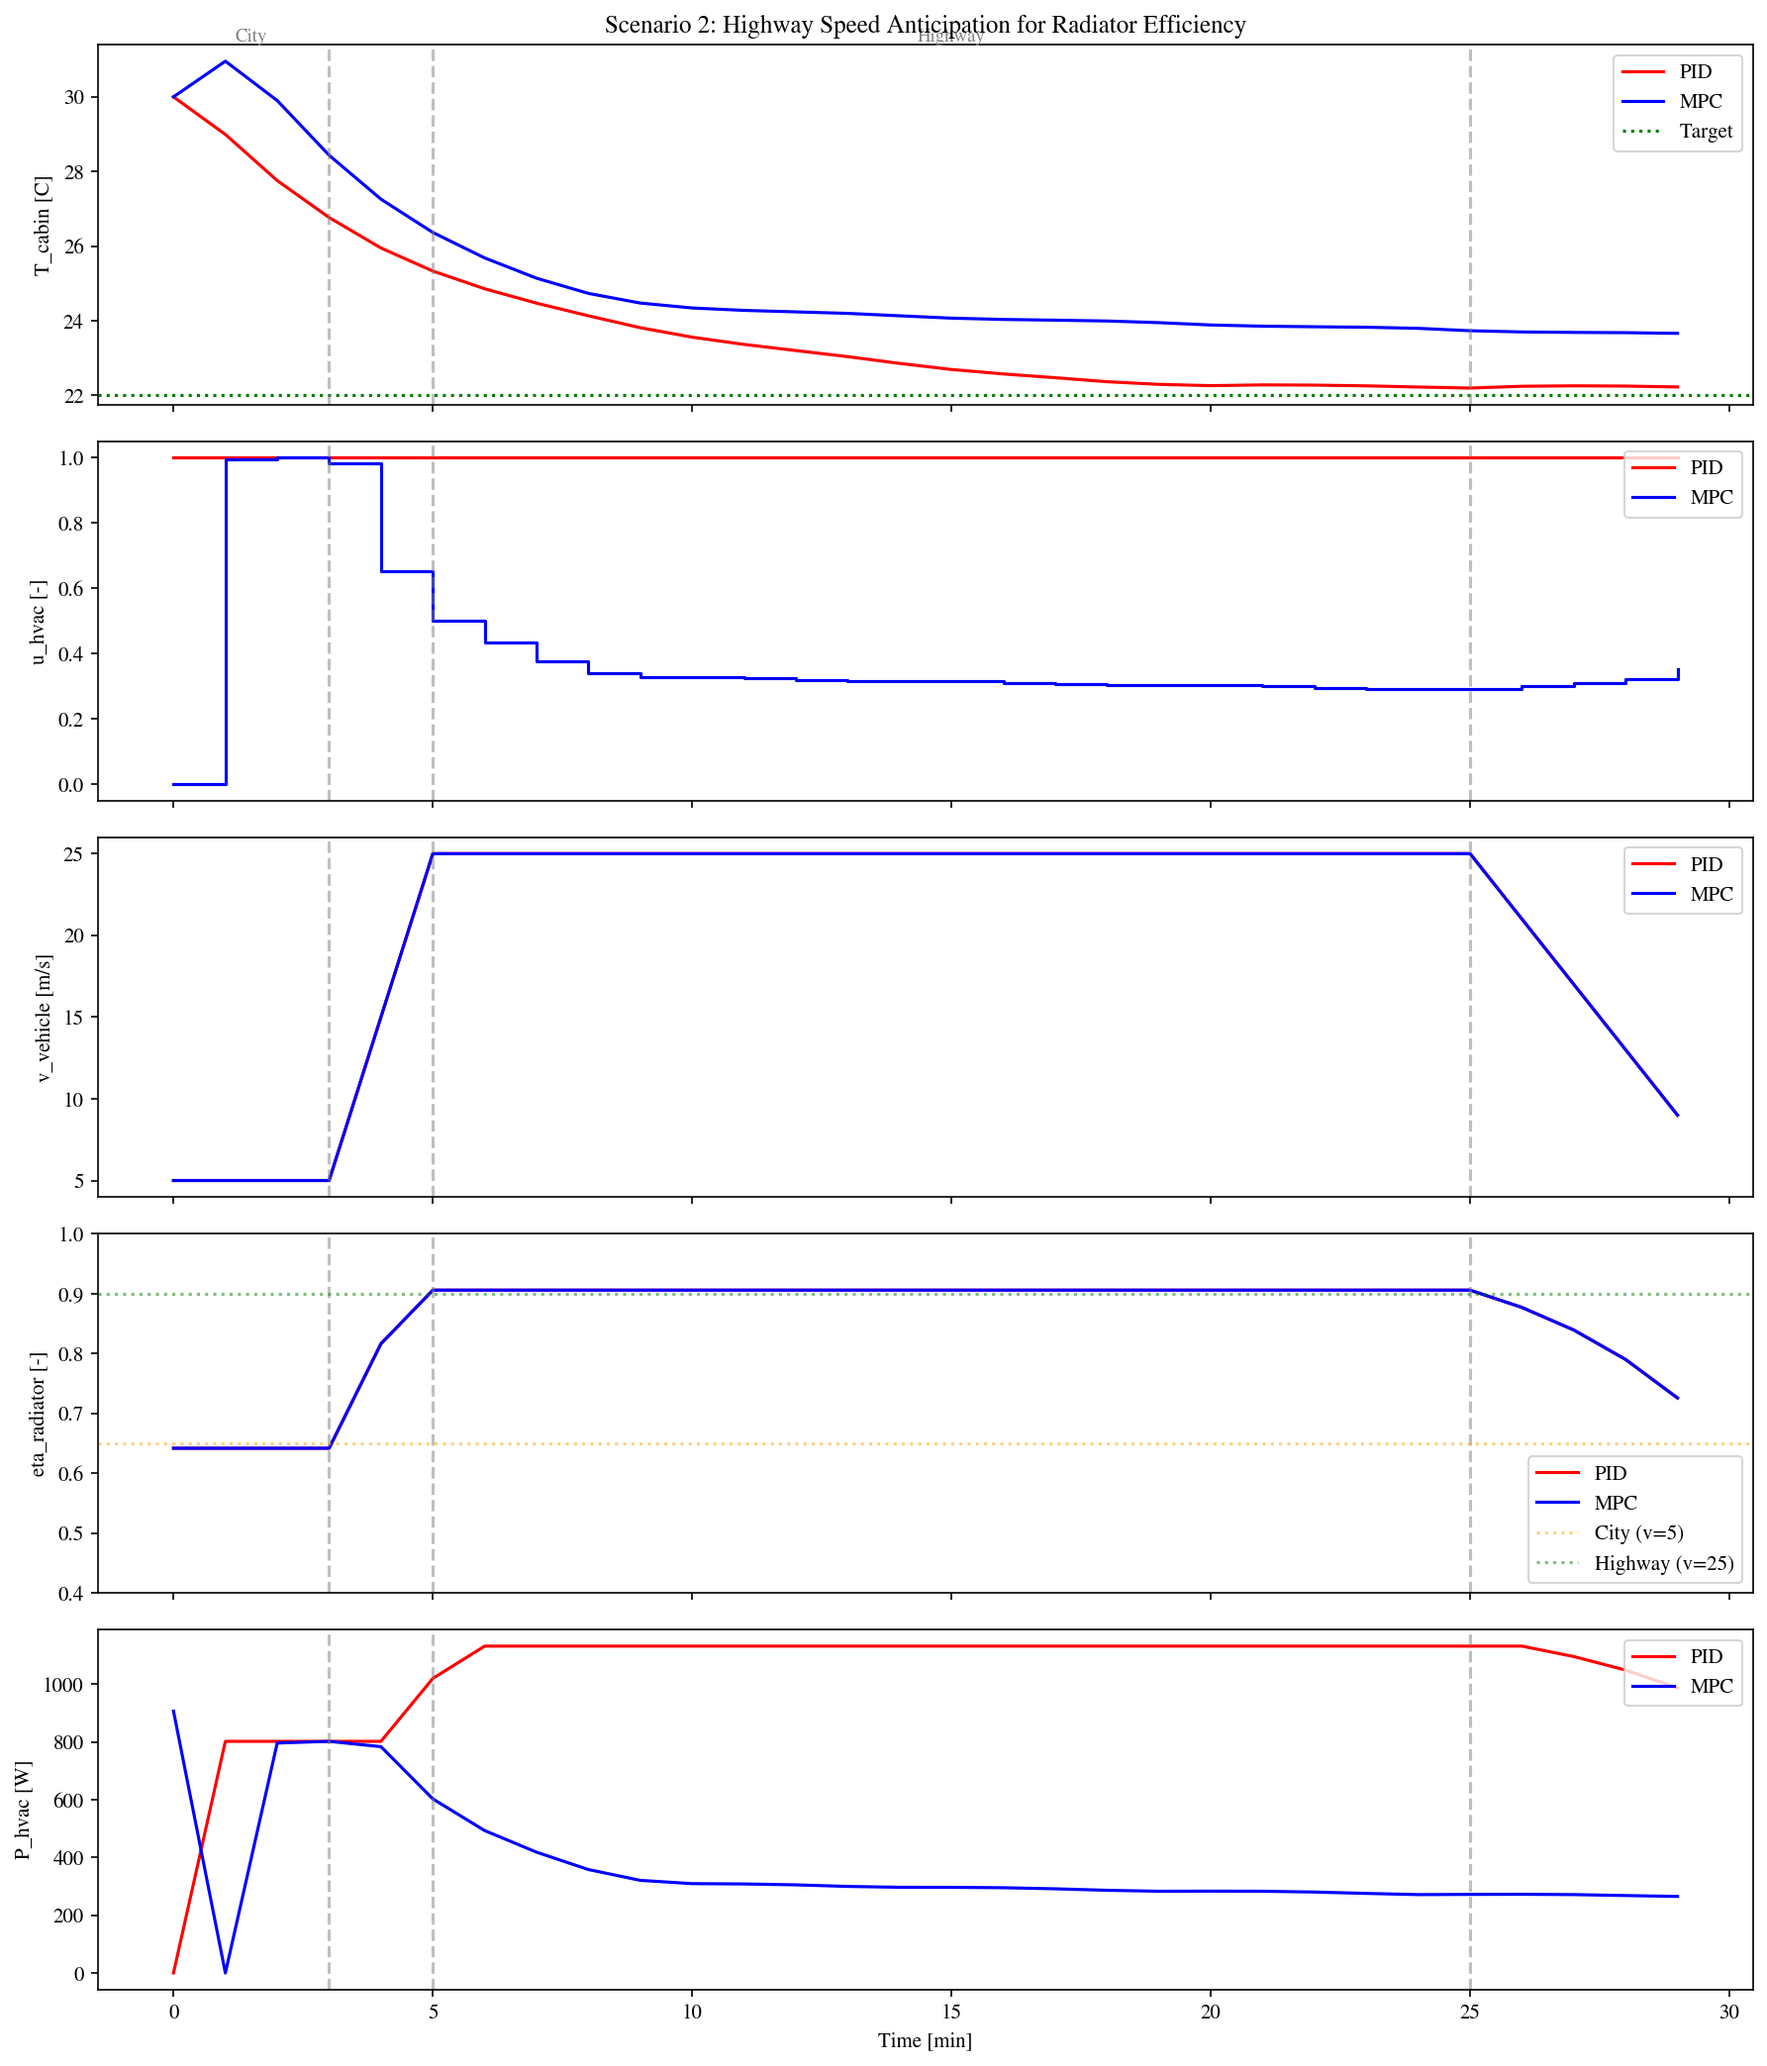
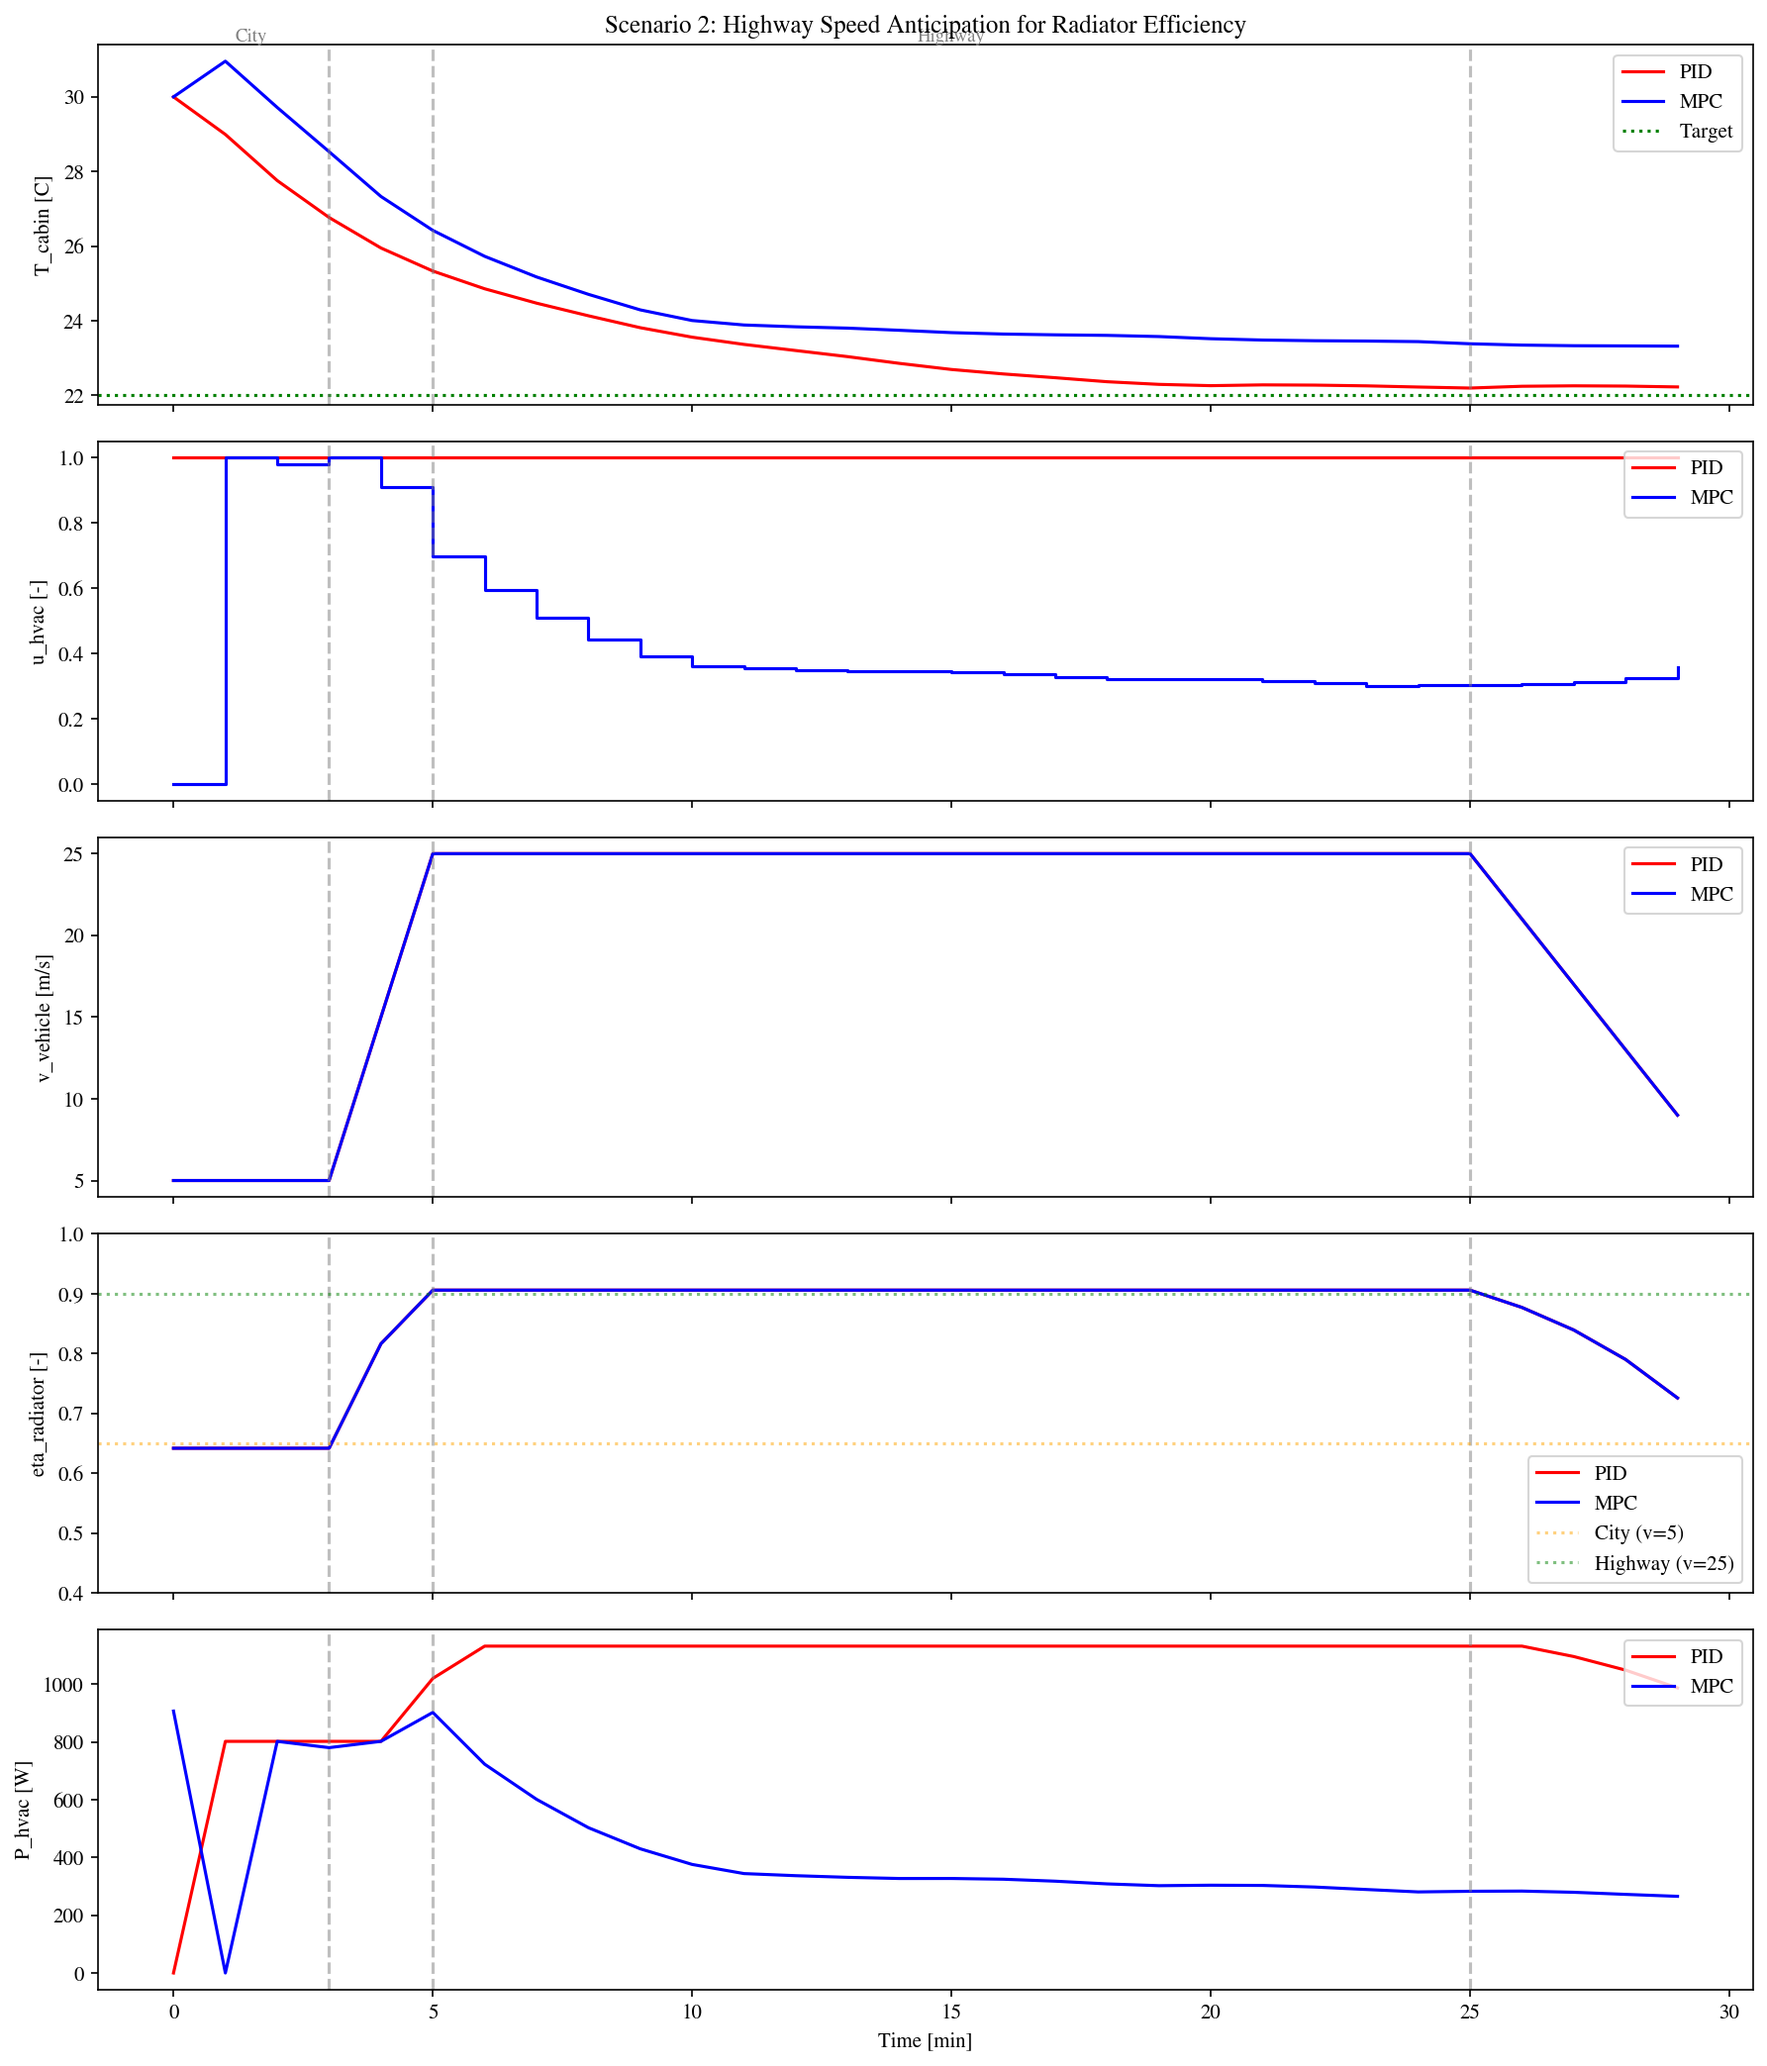
scenario 2 (noch besser)

diff --git a/Examples/Robotaxi/scenario_config.py b/Examples/Robotaxi/scenario_config.py
@@ -400,11 +400,11 @@ def highway_anticipation_scenario() -> ScenarioConfig:
         },
 
         weights={
-            'T_cabin': 100.0,
+            'T_cabin': 1000.0,  # High weight to ensure comfort band [20-24°C] is reached
             'T_vent': 1.0,
             'T_ptc': 0.0,
             'C_CO2': 50.0,
-            'energy': 0.001,  # Higher energy penalty to encourage waiting for better eta
+            'energy': 0.00005,  # Very low energy penalty, MPC still benefits from eta_radiator
         },
 
         profile_T_ambient=ambient_profile,

diff --git a/.claude/claude.md b/.claude/claude.md
@@ -589,14 +589,14 @@ Five scenarios demonstrate MPC advantages over PID, ordered from simple to compl
 
 | Metric | PID | MPC | Improvement |
 |--------|-----|-----|-------------|
-| Energy total | 519 Wh | 187 Wh | **-64.0%** |
-| Energy city (t=0-3min) | 27 Wh | 28 Wh | ~same |
-| Energy highway (t=5-25min) | 376 Wh | 109 Wh | **-71%** |
-| T at highway start | 25.3°C | 26.4°C | MPC warmer |
+| Energy total | 519 Wh | 210 Wh | **-59.5%** |
+| Energy city (t=0-3min) | 27 Wh | 29 Wh | ~same |
+| Energy highway (t=5-25min) | 376 Wh | 132 Wh | **-65%** |
+| T steady state (t>15min) | 22.2°C | 23.5°C | Both in band |
 | eta_radiator city | 0.64 | 0.64 | same |
 | eta_radiator highway | 0.91 | 0.91 | same |
 
-**Key Insight:** MPC saves 64% energy by exploiting better radiator efficiency on highway. At city speed (5 m/s), eta=0.64; at highway (25 m/s), eta=0.91. MPC doesn't need to push as hard because each Watt of electrical power produces 40% more cooling at highway speed.
+**Key Insight:** MPC saves 60% energy by exploiting better radiator efficiency on highway. At city speed (5 m/s), eta=0.64; at highway (25 m/s), eta=0.91. MPC settles at 23.5°C (upper comfort band) instead of 22°C, trading 1.3K comfort for significant energy savings. Both stay within comfort band [20-24°C].
 
 **Output Files:**
 - `Examples/Robotaxi/s2_highway_anticipation_comparison.png` - Comparison plot
@@ -749,7 +749,7 @@ m_dot_fresh = m_dot_max × u_blower × fresh_frac
 ## Next Steps / TODO
 
 - [x] Scenario 1: Pre-Conditioning (MPC 58% energy savings vs PID)
-- [x] Scenario 2: Highway Speed Anticipation (MPC 64% energy savings vs PID)
+- [x] Scenario 2: Highway Speed Anticipation (MPC 60% energy savings vs PID)
 - [ ] Scenario 3: Temperature Peak Shaving
 - [ ] Scenario 4: CO2 vs Energy Trade-off
 - [ ] Scenario 5: SOC-Dependent Comfort Relaxation
